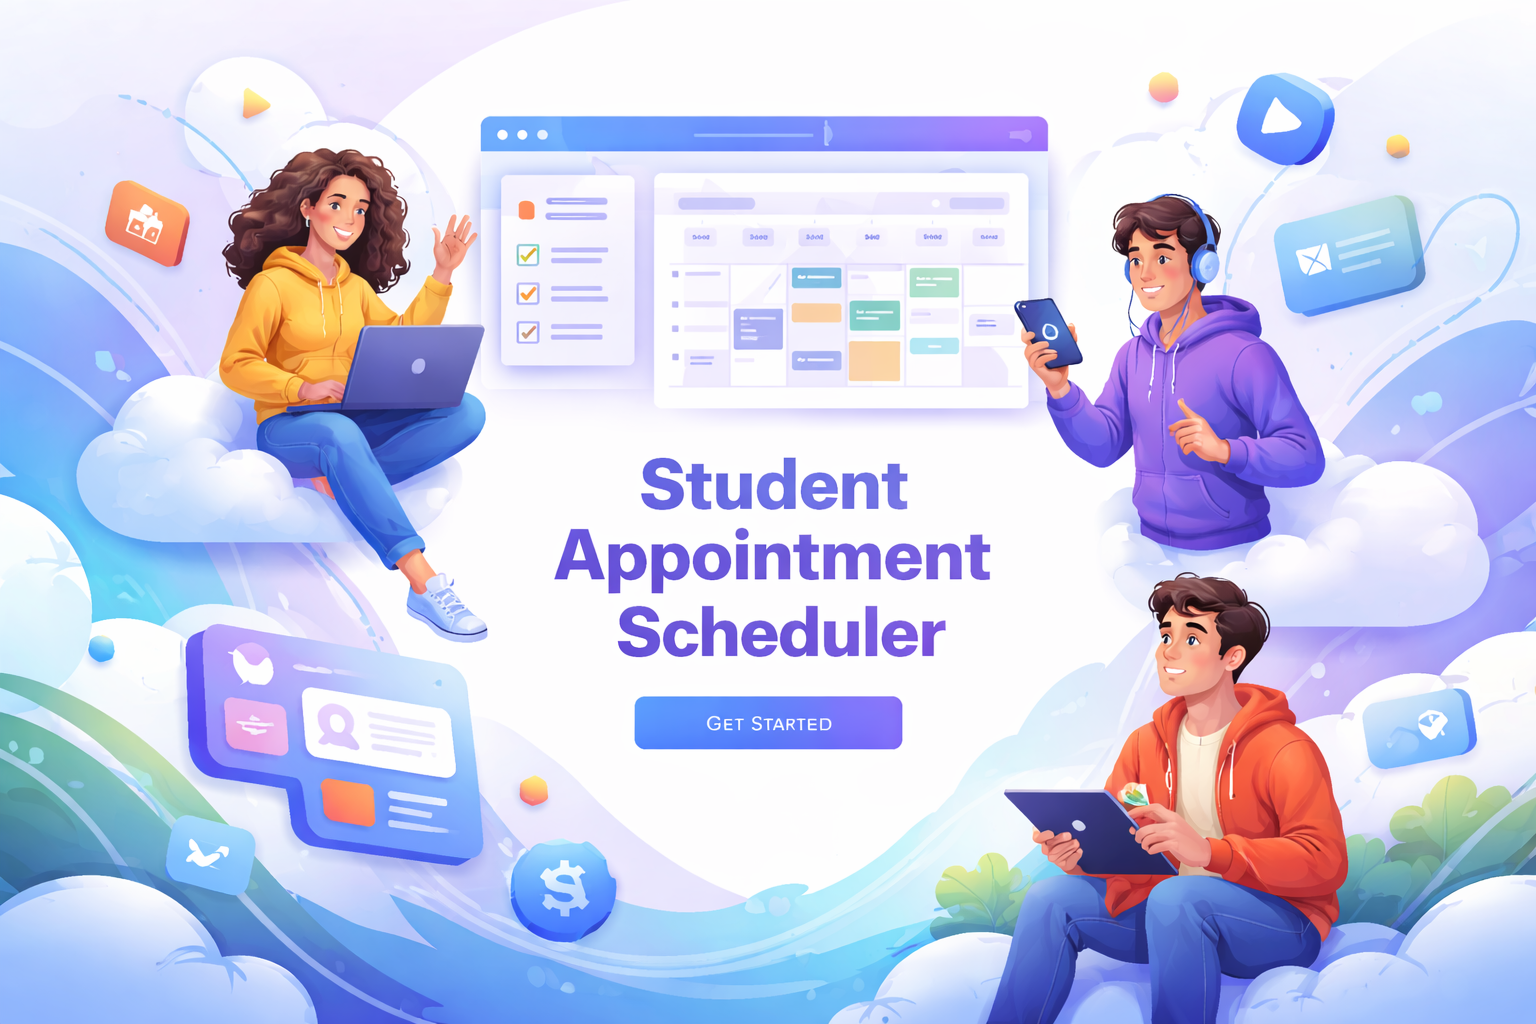
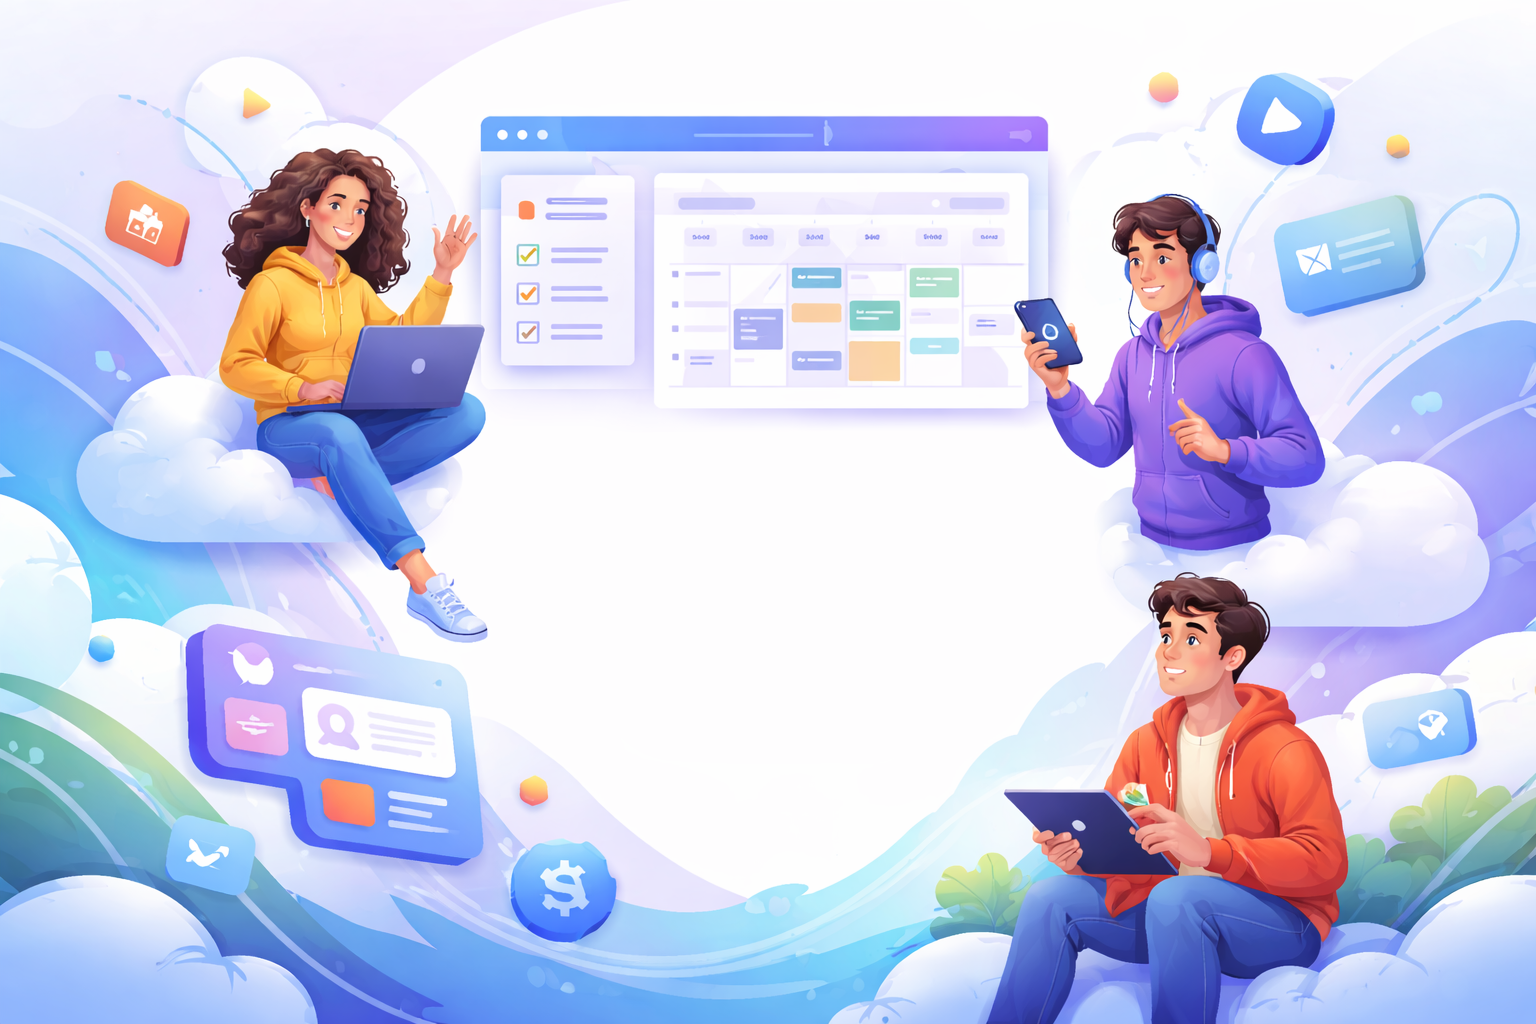
Homepage button

Changed region(s): [[0.3438, 0.5, 0.6562, 0.75], [0.4062, 0.4375, 0.5938, 0.5]]

diff --git a/frontend/src/styles/Home.css b/frontend/src/styles/Home.css
@@ -11,9 +11,10 @@
   height: 100%;
   display: flex;
   justify-content: center;
-  align-items: center;
+  align-items: flex-start;   
+  padding-top: 225px; 
   text-align: center;
-  padding: 20px;
+ 
 }
 
 .content {
@@ -22,31 +23,30 @@
 }
 
 .content h1 {
-  font-size: 3rem;
-  margin-bottom: 20px;
+  font-size: 2.5rem;
+  margin-bottom: 1px;
   font-weight: 700;
+  color: #5752e6;
 }
 
 .content p {
-  font-size: 1.2rem;
-  margin-bottom: 30px;
+  font-size: 1.0rem;
+  margin-bottom: 10px;
   opacity: 0.9;
+  color: #09008a;
 }
 
 .buttons {
   display: flex;
   justify-content: center;
-  gap: 20px;
+  gap: 10px;
   flex-wrap: wrap;
 }
 
 .btn {
-  padding: 12px 28px;
-  border-radius: 30px;
-  font-size: 1rem;
-  border: none;
-  cursor: pointer;
-  transition: 0.3s ease;
+  padding: 14px 32px;
+  min-width: 115px;
+  max-width: 90px;
 }
 
 .primary {

diff --git a/frontend/src/pages/Home.jsx b/frontend/src/pages/Home.jsx
@@ -23,10 +23,12 @@ export default function Home() {
     >
       <div className="overlay">
         <div className="content">
-          <h1>Student Appointment Scheduler</h1>
+          <h1>Student Appointment <br />
+           Scheduler</h1>
 
           <p>
-            Book academic advising appointments easily and manage your
+            Book academic advising appointments easily <br />
+            and manage your
             schedule in one place.
           </p>
 